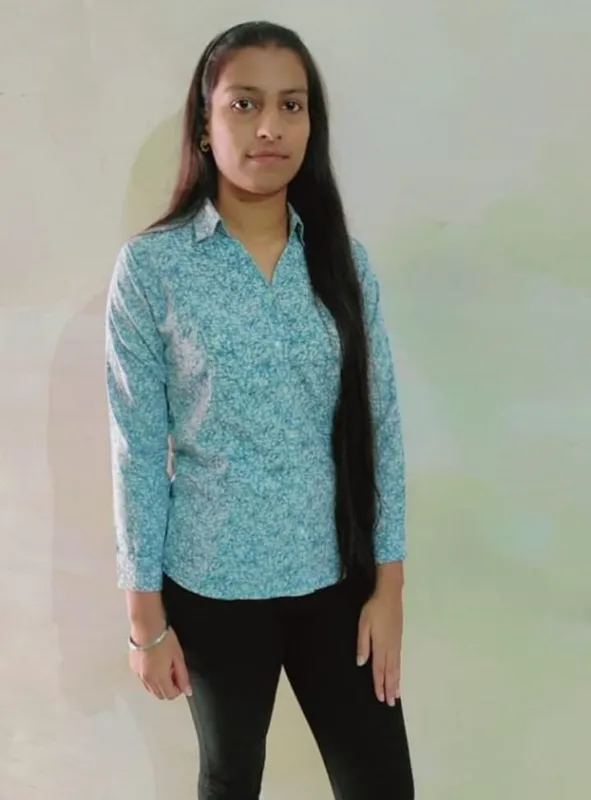
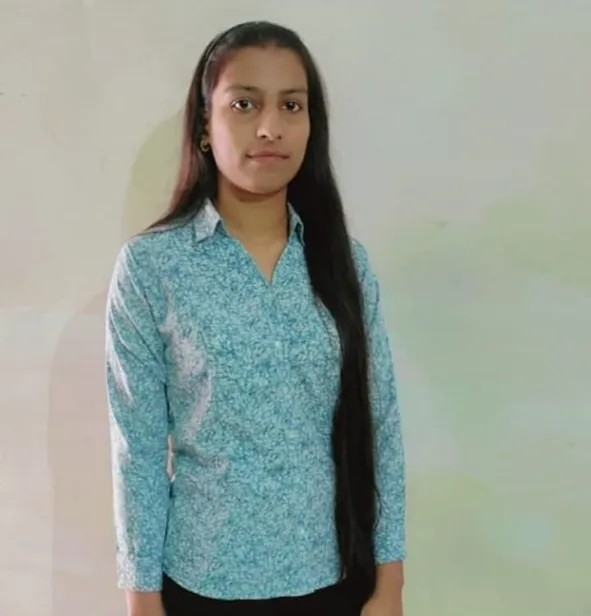
adding some more bkchdi

Changed region(s): [[0.1523, 0.0, 0.7614, 1.0]]

diff --git a/src/pages/meets/zoompara/Index.tsx b/src/pages/meets/zoompara/Index.tsx
@@ -20,6 +20,7 @@ import Picture10 from "../../../assets/rounded team/RoundedDeepika.png";
 import Picture14 from "../../../assets/rounded team/RoundedVivek.jpg";
 import Picture15 from "../../../assets/rounded team/RoundedKunal.jpg";
 import Picture17 from "../../../assets/rounded team/Roundedkk.jpg";
+import Footer from "../../../components/Footer";
 
 interface Picture {
   src: string;
@@ -44,11 +45,14 @@ export default function Index() {
     return () => window.removeEventListener("resize", handleResize);
   }, []);
 
-  const getScaleFactor = useCallback((baseScale: number) => {
-    if (screenWidth < 480) return baseScale * 0.5;
-    if (screenWidth < 768) return baseScale * 0.75;
-    return baseScale;
-  }, [screenWidth]);
+  const getScaleFactor = useCallback(
+    (baseScale: number) => {
+      if (screenWidth < 480) return baseScale * 0.5;
+      if (screenWidth < 768) return baseScale * 0.75;
+      return baseScale;
+    },
+    [screenWidth],
+  );
 
   const createScale = useCallback(
     (baseScale: number) => {
@@ -78,7 +82,7 @@ export default function Index() {
   );
 
   return (
-    <div ref={container} className={styles.container}>
+    <div ref={container} className={`${styles.container}`}>
       <div className={styles.sticky}>
         {pictures.map(({ src, alt, scale }, index) => (
           <motion.div
@@ -103,6 +107,7 @@ export default function Index() {
       <div className={styles.newSection}>
         <div>
           <Teaminfo />
+          <Footer />
         </div>
       </div>
     </div>

diff --git a/src/pages/Home.tsx b/src/pages/Home.tsx
@@ -4,7 +4,6 @@ import logo from "../assets/Dev_logo[1].png";
 import "./Home.css";
 import AboutUs from "./Aboutus";
 import Meets from "./meets/zoompara/Index";
-import Footer from "../components/Footer";
 
 
 const Home: React.FC = () => {
@@ -81,7 +80,6 @@ const Home: React.FC = () => {
       </div>
       <AboutUs />
       <Meets />
-      <Footer />
     </>
   );
 };

diff --git a/src/pages/meets/Teaminfo.tsx b/src/pages/meets/Teaminfo.tsx
@@ -22,7 +22,7 @@ function Teaminfo() {
             >
               <span>
                 <img
-                  className="w-full max-h-[500px] rounded-lg sm:rounded-none"
+                  className="w-[200px] h-[200px] object-cover rounded-lg sm:rounded-none"
                   src={member.image}
                   alt="Bonnie Avatar"
                 />
